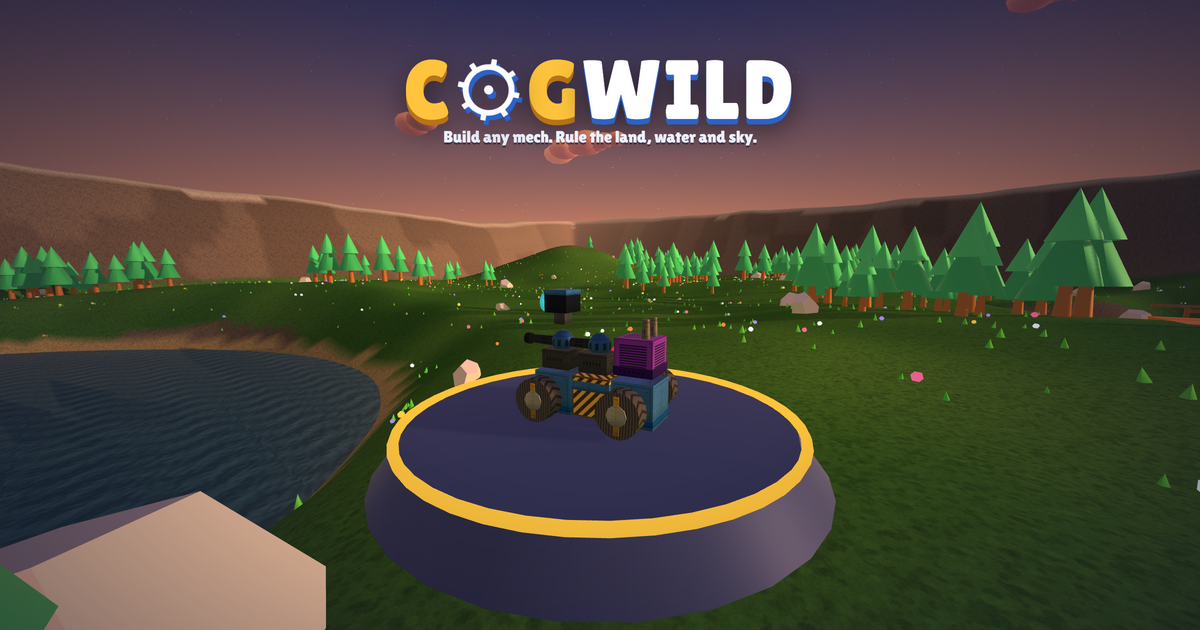
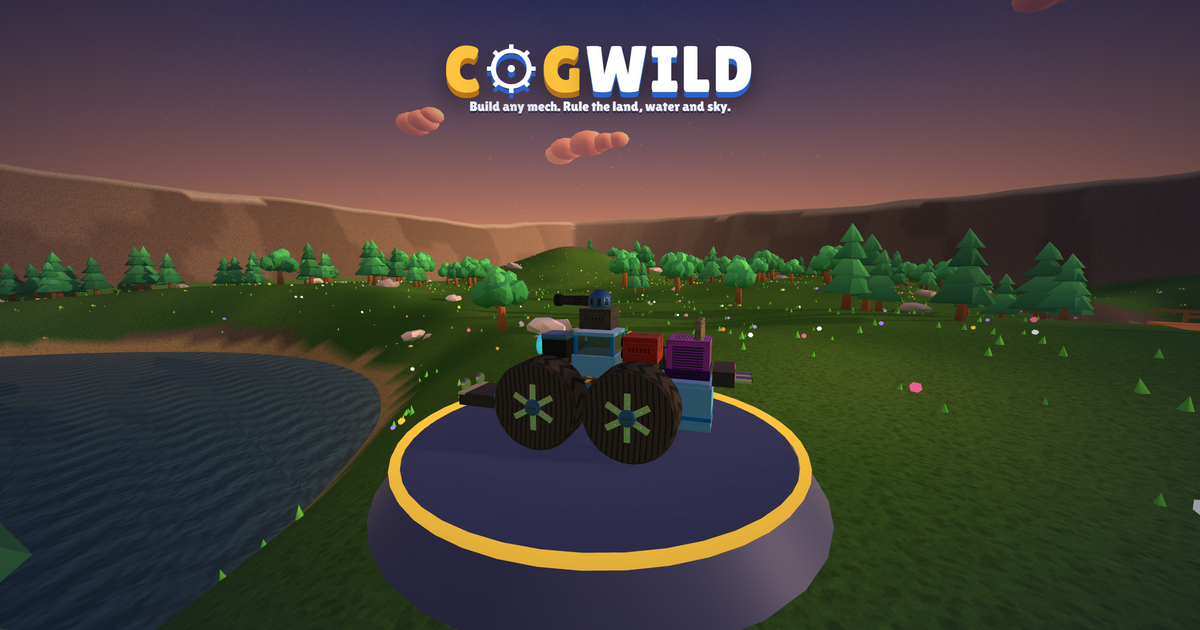
Microsoft Store ready: Store copy updates via the Store, Windows 10 1809+, publisher name option, listing texts and art; Email us works in the desktop app (v1.8.3)

diff --git a/desktop/shots.js b/desktop/shots.js
@@ -1,7 +1,8 @@
 // Store screenshots + the link-preview image, rendered from the real game (offscreen, nothing is shown).
 //   cd desktop && node copy-game.js && npx electron shots.js
-// Writes ../dist/store/screenshots/*.png (1920x1080) and ../img/og-image.png (1200x630).
-const { app, BrowserWindow } = require('electron');
+// Writes ../dist/store/screenshots/*.png (1920x1080), ../img/og-image.png (1200x630) and the Microsoft Store art in
+// ../dist/store/listing/ (hero 1920x1080, box art 1080x1080, poster 720x1080, logo 300x300).
+const { app, BrowserWindow, nativeImage } = require('electron');
 const fs = require('fs');
 const path = require('path');
 
@@ -14,9 +15,10 @@ app.whenReady().then(async () => {
   win.setContentSize(1920, 1080);
   win.webContents.setAudioMuted(true); // screenshots only, no sound
   win.webContents.setFrameRate(30);
+  require('../tests/no-voice-ask')(win); // answer "Use voice chat?" with "Keep it off", so it isn't in the pictures
   // a fresh player who already did the tutorial (no pop-ups), graphics on high for the pictures
   await win.loadFile(path.join(__dirname, 'app', 'index.html'));
-  await win.webContents.executeJavaScript(`localStorage.setItem('cogwild.profile', JSON.stringify({ xp: 1240, coins: 1850, settings: { tutorialDone: true, graphics: 'high', music: false } })); location.reload();`);
+  await win.webContents.executeJavaScript(`localStorage.setItem('cogwild.current', JSON.stringify(CW.cloneBp(CW.PRESETS.find((p) => p.id === 'monster')))); localStorage.setItem('cogwild.profile', JSON.stringify({ xp: 1240, coins: 1850, settings: { tutorialDone: true, graphics: 'high', music: false, arena: 'canyon', timeOfDay: 'day' } })); location.reload();`);
   await wait(5000);
   const js = (code) => win.webContents.executeJavaScript(code);
   const shot = async (name) => {
@@ -36,9 +38,24 @@ app.whenReady().then(async () => {
   const og = clean.crop({ x: 0, y: Math.round(s.height * 0.02), width: s.width, height: h }).resize({ width: 1200, height: 630 });
   fs.writeFileSync(path.join(__dirname, '..', 'img', 'og-image.png'), og.toPNG());
   console.log('saved og-image', og.getSize());
+  // Microsoft Store art from the same clean shot: the logo on top, the mech in the middle
+  const ART = path.join(__dirname, '..', 'dist', 'store', 'listing');
+  fs.mkdirSync(ART, { recursive: true });
+  const art = (name, w, h) => {
+    const cw = Math.min(s.width, Math.round((s.height * w) / h)), ch = Math.round((cw * h) / w);
+    const img = clean.crop({ x: Math.round((s.width - cw) / 2), y: 0, width: cw, height: Math.min(s.height, ch) }).resize({ width: w, height: h, quality: 'best' });
+    fs.writeFileSync(path.join(ART, name + '.png'), img.toPNG());
+    console.log('saved', name, img.getSize());
+  };
+  art('hero-1920x1080', 1920, 1080);
+  art('box-art-1080x1080', 1080, 1080);
+  art('poster-720x1080', 720, 1080);
+  const logo = nativeImage.createFromPath(path.join(__dirname, 'build', 'icon.png')).resize({ width: 300, height: 300, quality: 'best' });
+  fs.writeFileSync(path.join(ART, 'store-logo-300x300.png'), logo.toPNG());
+  console.log('saved store-logo', logo.getSize());
   await js(`document.querySelectorAll('.lobby-top, .lobby-side, .lobby-bottom, #menu .version').forEach((e) => (e.style.visibility = ''))`);
 
-  await js(`(() => { const g = window.game || CW.game; g.modeId = 'clash'; g.formatId = 'ffa'; g.startMatch(CW.cloneBp(CW.PRESETS[2] || CW.PRESETS[0])); })()`);
+  await js(`(() => { const g = window.game || CW.game; g.modeId = 'clash'; g.formatId = 'ffa'; g.startMatch(CW.cloneBp(CW.PRESETS.find((p) => p.id === 'monster') || CW.PRESETS[0])); })()`);
   // let the bots close in, then drive and fire into the fight
   await js(`(() => { const g = window.game || CW.game; g.settings.camMode = 'third'; })()`);
   await wait(16000);
@@ -61,5 +78,21 @@ app.whenReady().then(async () => {
   await js(`(() => { const g = window.game || CW.game; g.showMenu(); g.meta.openPanel('road'); })()`);
   await wait(1500);
   await shot('6-trophy-road');
+
+  await js(`(() => { const g = window.game || CW.game; g.meta.closePanel(); g.meta.openPanel('shop'); })()`);
+  await wait(1200);
+  await js(`(() => { const h = [...document.querySelectorAll('#panelBody h3')].find((x) => /finishes/.test(x.textContent)); if (h) h.scrollIntoView(); })()`);
+  await wait(600);
+  await shot('7-shop');
+
+  // flying over the canyon in the Hornet
+  await js(`(() => { const g = window.game || CW.game; g.meta.closePanel(); g.modeId = 'clash'; g.formatId = 'ffa'; g.settings.camMode = 'third'; g.startMatch(CW.cloneBp(CW.PRESETS.find((p) => p.id === 'hornet'))); })()`);
+  await wait(5000);
+  await js(`(() => { const g = window.game || CW.game; g.keys.Space = true; g.keys.KeyW = true; })()`);
+  await wait(2500);
+  await js(`(() => { const g = window.game || CW.game; g.keys.Space = false; g.cam.pitch = -0.25; })()`);
+  await wait(1500);
+  await shot('8-flying');
+  await js(`(() => { const g = window.game || CW.game; g.keys.KeyW = false; g.showMenu(); })()`);
   app.exit(0);
 });

diff --git a/download.html b/download.html
@@ -44,32 +44,32 @@
       <div class="small">Nothing to install. Works on PCs, Macs, Chromebooks, tablets and phones.</div>
       <a class="btn blue" href="/">▶ Play now</a>
     </div>
-    <div class="card" data-file="Cogwild-Setup-1.8.2.exe">
+    <div class="card" data-file="Cogwild-Setup-1.8.3.exe">
       <div class="big">🪟</div>
       <h2>Windows</h2>
       <div class="small">Installer with a Start-menu shortcut. Windows 10 and 11, 64-bit. <span class="size"></span></div>
-      <a class="btn" href="downloads/Cogwild-Setup-1.8.2.exe" download>⬇ Download installer</a>
-      <a class="btn alt" href="downloads/Cogwild-1.8.2-portable.exe" download data-file="Cogwild-1.8.2-portable.exe">⬇ Portable .exe (no install) <span class="size"></span></a>
+      <a class="btn" href="downloads/Cogwild-Setup-1.8.3.exe" download>⬇ Download installer</a>
+      <a class="btn alt" href="downloads/Cogwild-1.8.3-portable.exe" download data-file="Cogwild-1.8.3-portable.exe">⬇ Portable .exe (no install) <span class="size"></span></a>
     </div>
-    <div class="card" data-file="Cogwild-1.8.2-mac-arm64.zip">
+    <div class="card" data-file="Cogwild-1.8.3-mac-arm64.zip">
       <div class="big">🍎</div>
       <h2>macOS <small class="small">beta</small></h2>
       <div class="small">Apple Silicon (M1 and newer) or Intel Macs, macOS 10.15+. Not signed by Apple yet: see below. <span class="size"></span></div>
-      <a class="btn" href="downloads/Cogwild-1.8.2-mac-arm64.zip" download>⬇ Apple Silicon (M1–M4)</a>
-      <a class="btn alt" href="downloads/Cogwild-1.8.2-mac-x64.zip" download data-file="Cogwild-1.8.2-mac-x64.zip">⬇ Intel Mac <span class="size"></span></a>
+      <a class="btn" href="downloads/Cogwild-1.8.3-mac-arm64.zip" download>⬇ Apple Silicon (M1–M4)</a>
+      <a class="btn alt" href="downloads/Cogwild-1.8.3-mac-x64.zip" download data-file="Cogwild-1.8.3-mac-x64.zip">⬇ Intel Mac <span class="size"></span></a>
     </div>
-    <div class="card" data-file="Cogwild-1.8.2-linux-x64.tar.gz">
+    <div class="card" data-file="Cogwild-1.8.3-linux-x64.tar.gz">
       <div class="big">🐧</div>
       <h2>Linux</h2>
       <div class="small">64-bit PCs (Ubuntu, Mint, Fedora, Debian, SteamOS…) or ARM (Raspberry Pi 4/5). <span class="size"></span></div>
-      <a class="btn" href="downloads/Cogwild-1.8.2-linux-x64.tar.gz" download>⬇ Linux 64-bit (.tar.gz)</a>
-      <a class="btn alt" href="downloads/Cogwild-1.8.2-linux-arm64.tar.gz" download data-file="Cogwild-1.8.2-linux-arm64.tar.gz">⬇ ARM 64-bit <span class="size"></span></a>
+      <a class="btn" href="downloads/Cogwild-1.8.3-linux-x64.tar.gz" download>⬇ Linux 64-bit (.tar.gz)</a>
+      <a class="btn alt" href="downloads/Cogwild-1.8.3-linux-arm64.tar.gz" download data-file="Cogwild-1.8.3-linux-arm64.tar.gz">⬇ ARM 64-bit <span class="size"></span></a>
     </div>
-    <div class="card" data-file="Cogwild-1.8.2.apk">
+    <div class="card" data-file="Cogwild-1.8.3.apk">
       <div class="big">🤖</div>
       <h2>Android</h2>
       <div class="small">Phones and tablets with Android 6 or newer. Touch controls built in. <span class="size"></span></div>
-      <a class="btn" href="downloads/Cogwild-1.8.2.apk" download>⬇ Download APK</a>
+      <a class="btn" href="downloads/Cogwild-1.8.3.apk" download>⬇ Download APK</a>
     </div>
   </div>
 
@@ -88,7 +88,7 @@
     </ol>
     <h3>🐧 Installing on Linux</h3>
     <ol>
-      <li>Extract the .tar.gz (double-click it, or <code>tar -xzf Cogwild-1.8.2-linux-x64.tar.gz</code>).</li>
+      <li>Extract the .tar.gz (double-click it, or <code>tar -xzf Cogwild-1.8.3-linux-x64.tar.gz</code>).</li>
       <li>Open the folder and run <code>./cogwild</code>. Run <code>./install-shortcut.sh</code> once to add Cogwild to your app menu.</li>
     </ol>
     <h3>🤖 Installing on Android</h3>
@@ -97,7 +97,7 @@
       <li>If Android asks, allow your browser to <b>install unknown apps</b> (only for this install; you can switch it off afterwards).</li>
       <li>Tap <b>Install</b>, open Cogwild and turn your phone sideways.</li>
     </ol>
-    <div class="small">Version 1.8.2 · Updates: download the new version and install it over the old one. Your account keeps your progress either way.</div>
+    <div class="small">Version 1.8.3 · Updates: download the new version and install it over the old one. Your account keeps your progress either way.</div>
   </div>
 
   <footer class="small"><a href="/">Play Cogwild</a> · <a href="privacy.html">Privacy</a></footer>

diff --git a/tests/drive-test.js b/tests/drive-test.js
@@ -64,7 +64,21 @@ app.whenReady().then(async () => {
   const steerers = await js(`${G}.player.mech.parts.filter((p) => p.steers).length`);
   check(steerers === 2, `the buggy's 2 front wheels steer (${steerers})`);
   // drive forward, steer left, let go: the view and the mech stop turning right away
-  await js(`(() => { const g = ${G}; for (const e of g.mechs) if (e !== g.player.mech) e.place(e.pos.clone().setX(e.pos.x + 400), 0); g.keys.KeyW = true; return true; })()`);
+  // a long flat dry stretch to drive on (the spawn spot is random: water or a wall ahead would spoil the checks)
+  await js(`(() => {
+    const g = ${G}, w = g.world, m = g.player.mech;
+    for (const e of g.mechs) if (e !== m) e.place(e.pos.clone().setX(e.pos.x + 400), 0);
+    let best = null;
+    for (let x = -140; x <= 140 && !best; x += 7) for (let z = 120; z >= -60 && !best; z -= 7) {
+      let ok = true; const h0 = w.groundAt(x, z);
+      if (h0 < 1.5) continue;
+      for (let d = 0; d <= 90 && ok; d += 3) { const h = w.groundAt(x, z - d); if (h < 1.5 || Math.abs(h - h0) > 2.5) ok = false; } // north (yaw 0) for 90 m
+      if (ok) best = { x, z };
+    }
+    if (best) { m.place(best, 0); m.vel.set(0, 0, 0); g.cam.yaw = 0; }
+    window.__flat = best;
+    g.keys.KeyW = true; return true;
+  })()`);
   await ticks(90);
   await js(`${G}.keys.KeyA = true; true`);
   await ticks(40);
@@ -75,8 +89,11 @@ app.whenReady().then(async () => {
   await ticks(45);
   const after = await js(`({ cam: ${G}.cam.yaw, mech: ${G}.player.mech.yaw })`);
   check(Math.abs(after.cam - before.cam) < 0.02 && Math.abs(after.mech - before.mech) < 0.02, `after letting go of A the aim stays put (view moved ${(after.cam - before.cam).toFixed(3)}, mech ${(after.mech - before.mech).toFixed(3)} rad)`);
-  // S while rolling forward brakes hard
-  await ticks(60);
+  // S while rolling forward brakes hard: back to the flat stretch, drive straight, then brake
+  const toFlat = () => js(`(() => { const g = ${G}, m = g.player.mech; for (const k of ['KeyW', 'KeyA', 'KeyD', 'KeyS']) g.keys[k] = false; if (window.__flat) { m.place(window.__flat, 0); m.vel.set(0, 0, 0); g.cam.yaw = 0; g.cam.pitch = 0.05; } return true; })()`);
+  await toFlat();
+  await js(`${G}.keys.KeyW = true; true`);
+  await ticks(100);
   const v1 = await js(`${G}.player.mech.fwdSpeed`);
   await js(`(() => { const g = ${G}; g.keys.KeyW = false; g.keys.KeyS = true; return true; })()`);
   const media = [];
@@ -86,9 +103,14 @@ app.whenReady().then(async () => {
   check(v1 > 12 && v2 < v1 * 0.45, `S brakes like a car (${v1.toFixed(1)} → ${v2.toFixed(1)} m/s in 0.4 s, on ${media.join('/')})`);
 
   // shooting in first person: thin tracers, no flash covering the screen
-  await js(`(() => { const g = ${G}; g.settings.camMode = 'first'; g.mouse.left = true; return true; })()`);
-  await ticks(20);
-  const fire = await js(`(() => { const g = ${G}; const cam = g.camera.position; const near = g.fx.particles.filter((p) => p.mesh.position.distanceTo(cam) < 3 && p.mesh.scale.x > 0.15).length; const shells = g.fx.projectiles.filter((p) => p.kind === 'shell'); return { near, shells: shells.length, box: shells.length ? shells[0].mesh.geometry.type : '' }; })()`);
+  await toFlat();
+  await js(`(() => { const g = ${G}; g.settings.camMode = 'first'; g.cam.pitch = 0.08; return true; })()`);
+  await ticks(3); // the camera moves into the cockpit first
+  await js(`${G}.mouse.left = true; true`);
+  await ticks(10);
+  // big glows (sprites are as wide as their scale) within 2.5 m in front of the lens; smoke behind you doesn't count
+  const fire = await js(`(() => { const g = ${G}; const cam = g.camera.position, fwd = new THREE.Vector3(); g.camera.getWorldDirection(fwd);
+    const near = g.fx.particles.filter((p) => { const d = p.mesh.position.clone().sub(cam); return d.length() < 2.5 && d.dot(fwd) > 0 && p.mesh.scale.x > 0.5; }).length; const shells = g.fx.projectiles.filter((p) => p.kind === 'shell'); return { near, shells: shells.length, box: shells.length ? shells[0].mesh.geometry.type : '' }; })()`);
   check(fire.shells > 0 && fire.box === 'BoxGeometry', `cannon shots are thin tracers (${fire.shells} in the air, ${fire.box})`);
   check(fire.near === 0, `nothing big flashes in front of your own camera (${fire.near})`);
   await wait(50);

diff --git a/js/meta.js b/js/meta.js
@@ -545,6 +545,7 @@
         body.innerHTML = `<div class="small">${n} / ${CW.ACHIEVEMENTS.length} unlocked. Each one pays coins.</div><div class="ach-grid">${CW.ACHIEVEMENTS.map((a) => `<div class="ach ${got[a.id] ? 'got' : ''}"><b>${got[a.id] ? '🏆' : '🔒'} ${a.name}</b><span class="small">${a.desc}</span>${got[a.id] ? '' : prog(a)}<div class="small">+${a.reward} 🪙</div></div>`).join('')}</div>`;
       } else if (k === 'news') {
         body.innerHTML = `<ul class="news">
+          <li><b>v1.8.3</b>: 🪟 Ready for the Microsoft Store. In the Windows app, ✉ Email us (Settings › Support) now opens your email app.</li>
           <li><b>v1.8.2</b>: 🛒 New in the Shop: <b>mech finishes</b> (Carbon Fiber, Stealth Matte, Mirror Chrome, Neon Glow, Gold Plated, Rainbow Shift) and <b>wreck effects</b> (Confetti, Pixel Burst, Fireworks, Thunderstrike, Black Hole). 🏅 Ranked opens at 100 trophies. 🔧 Repairing is much faster: even a huge mech is rebuilt in about 4 seconds. ✈ While flying the screen shows how to climb (Space) and fly down (C). 🏋 Heavy mechs are much less slow. 🌲 New trees (pines, leafy trees, palms, cacti, burnt trees) and craggy rocks; soft glowing sparks and smoke instead of solid balls; only the part you hit flashes. 💬 T opens and closes the chat. ✉ Settings › Support and Help: contact us. Fixed: getting out next to a cliff or walking under a bridge could put you on top of it, and pilots could run up steep mountains and their own mech.</li>
           <li><b>v1.8.1</b>: 🖼 The Workshop part list shows a small 3D picture of every part. Name tags and health bars now sit exactly on their mech at any distance (they drifted on big screens).</li>
           <li><b>v1.8.0</b>: 🏎 Mechs drive like cars: A/D steer (front wheels turn, small taps = small corrections), S brakes, and letting go of A/D keeps your aim exactly where it is. 🔩 750 Bolts to build with. New <b>Body</b> parts (Car Body, Flat Panel, Nose, Cabin, Fender, Spoiler, Headlights, Exhaust), real-looking wheels and monster-truck <b>Big Wheels</b>. New example mechs: Monster Truck and Street Racer. Small tracer bullets with a real gunshot sound, parts that break off and fly, wrecks that fall apart and then explode. A calmer Workshop and smoother menus.</li>

diff --git a/index.html b/index.html
@@ -1810,29 +1810,29 @@
 </div>
 
 <!-- three.js: from the CDN, or the local copy in js/vendor/ when offline (desktop build / no internet) -->
-<script src="js/vendor/three.min.js?v=29"></script>
-<script src="js/economy.js?v=29"></script>
-<script src="js/parts.js?v=29"></script>
-<script src="js/platform.js?v=29"></script>
-<script src="js/featured.js?v=29"></script>
-<script src="js/world.js?v=29"></script>
-<script src="js/entities.js?v=29"></script>
-<script src="js/meta.js?v=29"></script>
-<script src="js/extras.js?v=29"></script>
-<script src="js/modes.js?v=29"></script>
-<script src="js/tutorial.js?v=29"></script>
-<script src="js/clips.js?v=29"></script>
-<script src="js/gamepad.js?v=29"></script>
-<script src="js/workshop.js?v=29"></script>
-<script src="js/config.js?v=29"></script>
-<script src="js/net.js?v=29"></script>
-<script src="js/account.js?v=29"></script>
-<script src="js/touch.js?v=29"></script>
-<script src="js/supers.js?v=29"></script>
-<script src="js/gadgets.js?v=29"></script>
-<script src="js/pics.js?v=29"></script>
-<script src="js/talk.js?v=29"></script>
-<script src="js/voice.js?v=29"></script>
-<script src="js/game.js?v=29"></script>
+<script src="js/vendor/three.min.js?v=30"></script>
+<script src="js/economy.js?v=30"></script>
+<script src="js/parts.js?v=30"></script>
+<script src="js/platform.js?v=30"></script>
+<script src="js/featured.js?v=30"></script>
+<script src="js/world.js?v=30"></script>
+<script src="js/entities.js?v=30"></script>
+<script src="js/meta.js?v=30"></script>
+<script src="js/extras.js?v=30"></script>
+<script src="js/modes.js?v=30"></script>
+<script src="js/tutorial.js?v=30"></script>
+<script src="js/clips.js?v=30"></script>
+<script src="js/gamepad.js?v=30"></script>
+<script src="js/workshop.js?v=30"></script>
+<script src="js/config.js?v=30"></script>
+<script src="js/net.js?v=30"></script>
+<script src="js/account.js?v=30"></script>
+<script src="js/touch.js?v=30"></script>
+<script src="js/supers.js?v=30"></script>
+<script src="js/gadgets.js?v=30"></script>
+<script src="js/pics.js?v=30"></script>
+<script src="js/talk.js?v=30"></script>
+<script src="js/voice.js?v=30"></script>
+<script src="js/game.js?v=30"></script>
 </body>
 </html>

diff --git a/desktop/main.js b/desktop/main.js
@@ -23,12 +23,14 @@ function createWindow() {
   });
   // no menu bar, except on a Mac: there the app menu gives Cmd+Q and the edit menu makes copy/paste work in text boxes
   Menu.setApplicationMenu(process.platform === 'darwin' ? Menu.buildFromTemplate([{ role: 'appMenu' }, { role: 'editMenu' }, { role: 'windowMenu' }]) : null);
-  // links (privacy, terms, download page) open in the player's own browser, never inside the game window
+  // links (privacy, terms, download page) open in the player's own browser, never inside the game window;
+  // "Email us" opens the player's email app, and the Store version can open the Microsoft Store for updates
   win.webContents.setWindowOpenHandler(({ url }) => {
-    if (/^https:\/\//.test(url)) shell.openExternal(url);
+    if (/^(https:\/\/|mailto:|ms-windows-store:)/.test(url)) shell.openExternal(url);
     return { action: 'deny' };
   });
-  win.loadFile(path.join(__dirname, 'app', 'index.html'));
+  // the Microsoft Store copy tells the game so (updates come from the Store, not the download page)
+  win.loadFile(path.join(__dirname, 'app', 'index.html'), process.windowsStore ? { query: { store: '1' } } : undefined);
   // F11 toggles fullscreen like most PC games
   win.webContents.on('before-input-event', (e, input) => {
     if (input.type === 'keyDown' && input.key === 'F11') win.setFullScreen(!win.isFullScreen());

diff --git a/js/parts.js b/js/parts.js
@@ -2,7 +2,7 @@
 (function () {
   const CW = (window.CW = window.CW || {});
 
-  CW.VERSION = 'v1.8.2';
+  CW.VERSION = 'v1.8.3';
   // escape text before it goes into innerHTML (mech/player names can come from pasted save codes)
   // "3h 12m" / "5d 4h" / "12m" until something ends
   CW.timeLeft = (ms) => { const m = Math.max(1, Math.ceil(ms / 60000)); return m >= 2880 ? `${Math.floor(m / 1440)}d ${Math.floor((m % 1440) / 60)}h` : m >= 60 ? `${Math.floor(m / 60)}h ${m % 60}m` : `${m}m`; };
@@ -25,6 +25,8 @@
     try { if (window.CogwildNative && window.CogwildNative.openUrl) return window.CogwildNative.openUrl(url); } catch (e) { /* fall back */ }
     window.open(url, '_blank');
   };
+  // the Microsoft Store copy of the desktop app (desktop/main.js adds ?store=1)
+  CW.STORE = new URLSearchParams(location.search).get('store') === '1';
   CW.esc = (s) => String(s == null ? '' : s).replace(/[&<>"']/g, (ch) => ({ '&': '&amp;', '<': '&lt;', '>': '&gt;', '"': '&quot;', "'": '&#39;' }[ch]));
   CW.SAVE_VERSION = 2;
   CW.WATER_Y = 0;

diff --git a/js/net.js b/js/net.js
@@ -135,7 +135,10 @@
           if (m.fatal && CW.APP && CW.PUBLIC_URL) {
             const msg = '⬆ A new version of Cogwild is out! Online play needs the update.';
             this.setStatus(msg);
-            g.account.note(msg, [{ label: 'Download update', main: true, fn: () => CW.openExternal(CW.PUBLIC_URL + 'download.html') }, { label: 'Later' }], 60000);
+            // the Microsoft Store copy updates through the Store (its rules), the others from the download page
+            const upd = CW.STORE ? { label: 'Update in the Microsoft Store', main: true, fn: () => CW.openExternal('ms-windows-store://downloadsandupdates') }
+              : { label: 'Download update', main: true, fn: () => CW.openExternal(CW.PUBLIC_URL + 'download.html') };
+            g.account.note(msg, [upd, { label: 'Later' }], 60000);
             break;
           }
           g.toast('⚠ ' + m.msg);

diff --git a/LAUNCH.md b/LAUNCH.md
@@ -9,12 +9,12 @@ The game, server, website, apps and store texts are ready. What's left below nee
 |---|---|---|
 | Website (play in browser, installable) | https://cogwild.duckdns.org | `deploy\upload.ps1` (see deploy/README.md) |
 | Download page | https://cogwild.duckdns.org/download | `build-apps.ps1 -Upload ...` |
-| Windows installer + portable | `dist\downloads\Cogwild-Setup-1.8.2.exe`, `Cogwild-1.8.2-portable.exe` | `build-apps.ps1` |
-| macOS (beta, not signed by Apple) | `dist\downloads\Cogwild-1.8.2-mac-arm64.zip` (Apple Silicon), `-mac-x64.zip` (Intel) | `build-apps.ps1` |
-| Linux | `dist\downloads\Cogwild-1.8.2-linux-x64.tar.gz`, `-linux-arm64.tar.gz` (Raspberry Pi etc.) | `build-apps.ps1` |
-| Android (sideload) | `dist\downloads\Cogwild-1.8.2.apk` (release-signed) | `build-apps.ps1` |
-| Google Play | `dist\store\Cogwild-1.8.2.aab` | `build-apps.ps1` |
-| Microsoft Store | `dist\store\Cogwild-1.8.2-store.appx` (needs your Store identity, see §3) | `build-apps.ps1 -StoreId ... -StorePublisher ...` |
+| Windows installer + portable | `dist\downloads\Cogwild-Setup-1.8.3.exe`, `Cogwild-1.8.3-portable.exe` | `build-apps.ps1` |
+| macOS (beta, not signed by Apple) | `dist\downloads\Cogwild-1.8.3-mac-arm64.zip` (Apple Silicon), `-mac-x64.zip` (Intel) | `build-apps.ps1` |
+| Linux | `dist\downloads\Cogwild-1.8.3-linux-x64.tar.gz`, `-linux-arm64.tar.gz` (Raspberry Pi etc.) | `build-apps.ps1` |
+| Android (sideload) | `dist\downloads\Cogwild-1.8.3.apk` (release-signed) | `build-apps.ps1` |
+| Google Play | `dist\store\Cogwild-1.8.3.aab` | `build-apps.ps1` |
+| Microsoft Store | `dist\store\Cogwild-1.8.3-store.appx` (needs your Store identity, see §3) | `build-apps.ps1 -StoreId ... -StorePublisher ...` |
 | itch.io (everything in one folder) | `dist\itch\` (browser zip + Windows/Mac/Linux downloads + `UPLOAD-THESE.txt`) | `build-apps.ps1`, then `build-itch.ps1 -Portal all` |
 | CrazyGames / Poki | `dist\cogwild-crazygames.zip`, `cogwild-poki.zip` | `build-itch.ps1 -Portal all` |
 | Store texts, ratings, data safety | [STORE_PAGE.md](STORE_PAGE.md) | |
@@ -41,21 +41,31 @@ The game, server, website, apps and store texts are ready. What's left below nee
 
 ## 2. Google Play (Android)
 - [ ] Google Play Console account: **$25 once**. New personal accounts must run a **closed test with at least 12 testers for 14 days** before going public. Start that early!
-- [ ] Create the app → upload `dist\store\Cogwild-1.8.2.aab` → turn on **Play App Signing** (default).
+- [ ] Create the app → upload `dist\store\Cogwild-1.8.3.aab` → turn on **Play App Signing** (default).
 - [ ] Store listing: title, short and long description, icon `img\icon-512.png`, feature graphic **1024×500** (crop `img\og-image.png`), at least 2 phone screenshots (the 16:9 screenshots work).
 - [ ] App content: privacy policy URL, **Data safety** and **content rating** answers (STORE_PAGE.md), target audience (choose 13+ or "all ages"; if you include under-13s, Google's Families policy applies), ads: **no**, account deletion URL `https://cogwild.duckdns.org/privacy.html#deleting`.
 - [ ] For each update: raise `versionCode` (+1) and `versionName` in `android\android\app\build.gradle`.
 
 ## 3. Windows: Steam and Microsoft Store
 - [ ] **Steam**: Steam Direct fee **$100**, tax/bank forms, store page early (wishlists take months), capsule images (use the screenshots + logo). Upload the `desktop\dist\win-unpacked` folder with SteamPipe.
-- [ ] **Microsoft Store** (free for individual developers; the Store signs the app, no certificate needed):
-  1. Sign up at https://storedeveloper.microsoft.com (individual account) and open Partner Center.
-  2. **Apps and games → New product → MSIX or PWA app**, reserve the name **Cogwild**.
-  3. In the new app: **Product management → Product identity**. Copy **Package/Identity/Name** and **Package/Identity/Publisher** (starts with `CN=`).
-  4. Run `build-apps.ps1 -StoreId <Package/Identity/Name> -StorePublisher "<CN=...>"` (or give both to Claude). It makes `dist\store\Cogwild-1.8.2-store.appx`.
-  5. Start a submission: upload that `.appx` under **Packages**, fill in the store listing (texts and screenshots from STORE_PAGE.md),
-     age rating questionnaire (same answers as Google Play), privacy policy URL, and submit. Certification usually takes 1-3 days.
-  The package asks Windows for the internet and the microphone (voice chat); it needs Windows 10 (1809) or newer.
+- [ ] **Microsoft Store** (free for individual developers; the Store signs the app, no certificate needed). Everything on the game's
+  side is ready: the package, the store texts, screenshots, art and the answers to every form are in **STORE_PAGE.md ›
+  Microsoft Store (Partner Center) fields**. What's left needs a Microsoft developer account:
+  1. **The account.** Sign up at https://storedeveloper.microsoft.com → "Individual developer". Microsoft checks the identity of
+     the person who signs up with a government ID, and the account holder must be an adult. If you're under 18, a parent can open
+     it in their name and set the **publisher display name** to **BlueDucky Games** (players only see that name).
+  2. In Partner Center: **Apps and games → New product → MSIX or PWA app**, reserve the name **Cogwild**.
+  3. **Product management → Product identity**: copy **Package/Identity/Name**, **Package/Identity/Publisher** (starts with `CN=`)
+     and **Package/Properties/PublisherDisplayName**.
+  4. Build the real package: `build-apps.ps1 -Only store -StoreId <Name> -StorePublisher "<CN=...>" -StorePublisherName "<display name>"`
+     (or give the three values to Claude). It makes `dist\store\Cogwild-<version>-store.appx`.
+  5. **Start a submission**: Pricing (Free, all markets) · Properties (category Games › Action & adventure, privacy policy URL, system
+     requirements) · Age ratings (IARC questionnaire) · Packages (upload the .appx) · Store listings (texts, 8 screenshots, box art,
+     poster, hero, logo from `dist\store\listing\`) · Submission options (paste the runFullTrust reason). Then **Submit**.
+     Certification usually takes 1-3 days; Microsoft emails the result.
+  6. Updates: raise the version, rebuild with the same three values, and upload the new .appx in a new submission. The Store copy of
+     the game sends players to the Store for updates (not to the download page), as Store rules require.
+  The package asks Windows for the internet and the microphone (voice chat); it needs Windows 10 version 1809 or newer.
 - [ ] Optional: a **code-signing certificate** (~$100-300/year) removes the "Windows protected your PC" warning on the download page.
 
 ## 4. Web game portals (ad revenue share)

diff --git a/CLAUDE.md b/CLAUDE.md
@@ -5,7 +5,7 @@ You build a mech from parts in the Workshop, then fight online (bots fill empty 
 It runs in the browser (three.js r128, no build step), as a Windows app (Electron) and an Android app (Capacitor),
 and on game portals (itch.io, CrazyGames, Poki). The online server is zero-dependency Node.js.
 
-**Live:** https://cogwild.duckdns.org (download page `/download`) · **Current version:** v1.8.2 · **Online protocol:** `cogwild-net-10`
+**Live:** https://cogwild.duckdns.org (download page `/download`) · **Current version:** v1.8.3 · **Online protocol:** `cogwild-net-10`
 The user is not a programmer: explain things in plain words, test everything yourself, and show screenshots as proof.
 
 ## How the user wants things done
@@ -164,7 +164,7 @@ apps would break with the new server; they then get an "update" prompt.
 - Confirm the Oracle alert email subscription.
 - Store launch: Google Play closed test (12 testers × 14 days), itch.io/CrazyGames/Poki submissions (zips in `dist/`).
 - Possibly a chat word filter later (they asked to wait).
-- Microsoft Store: reserve the name in Partner Center (free individual account) and give Product identity Name + Publisher, then rebuild the .appx (LAUNCH.md §3).
+- Microsoft Store: everything on our side is ready (package, texts, screenshots, art, form answers in STORE_PAGE.md). Needs a Partner Center account (adult with ID; a parent can own it), then Product identity Name + Publisher + PublisherDisplayName → `build-apps.ps1 -Only store -StoreId -StorePublisher -StorePublisherName` (LAUNCH.md §3). The Store copy (`process.windowsStore` → `?store=1` → `CW.STORE`) sends updates to the Store.
 - The Mac builds were never tried on a real Mac (built on Windows); Linux arm64 was smoke-tested in Docker on DuckysSrv.
 - New parts must also go into `js/economy.js` PARTS (cost, type, level, HP, DPS) or the server refuses mechs with them; adding part types needs a NET_VERSION bump (old games crash on unknown parts).
 - Optional: delete the empty "CogWild" Google Cloud project on the personal Google account (made by mistake, no billing).
